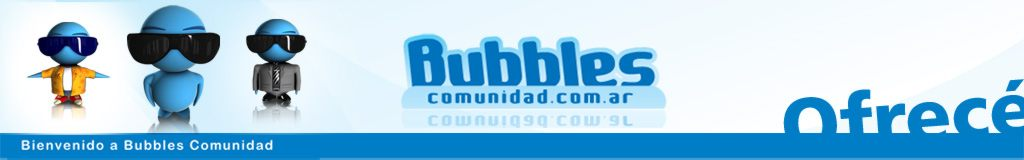
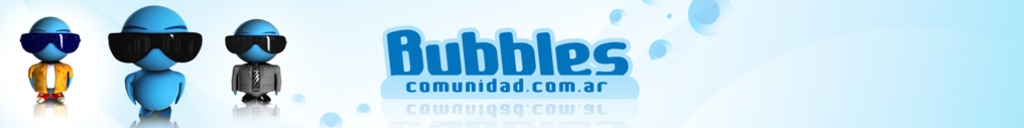
header remaquetado

diff --git a/bubbles/header-style.css b/bubbles/header-style.css
@@ -2,11 +2,32 @@
 width: 40px;
 height: 40px;
 background-image: url(imagenes/img_header.jpg);
+background-repeat: no-repeat;
 margin: auto;
 width:1024px;
-height:160px;
+height:128px;
 overflow: hidden;
 cursor: pointer;
+}
+.header .titulos{
+width:1024px;
+height: 25px;
+background-color: #0089D1;
+overflow: hidden;
+}
+.header .titulos a{
+cursor:pointer;
+text-decoration:none;
+}
+.header .titulos .izquierda{
+float: left;
+margin-left: 20px;
+margin-top: 4px;
+}
+.header .titulos .derecha{
+float: right;
+margin-right: 20px;
+margin-top: 4px;
 }
 .header .menu{
 width:1024px;

diff --git a/bubbles/header.php b/bubbles/header.php
@@ -142,6 +142,10 @@ else{
 
 	</div>
 	</a>
+	<div class="titulos">
+		<p class="parrafo10 izquierda">Bienvenido a Bubbles Comunidad</p>
+		<p class="parrafo10 derecha"><a class="parrafo10" href="<?php echo URL_BASE ?>">Home</a></p>
+	</div>
 	
 		<div class="menu">
 			<div class="div-1">
